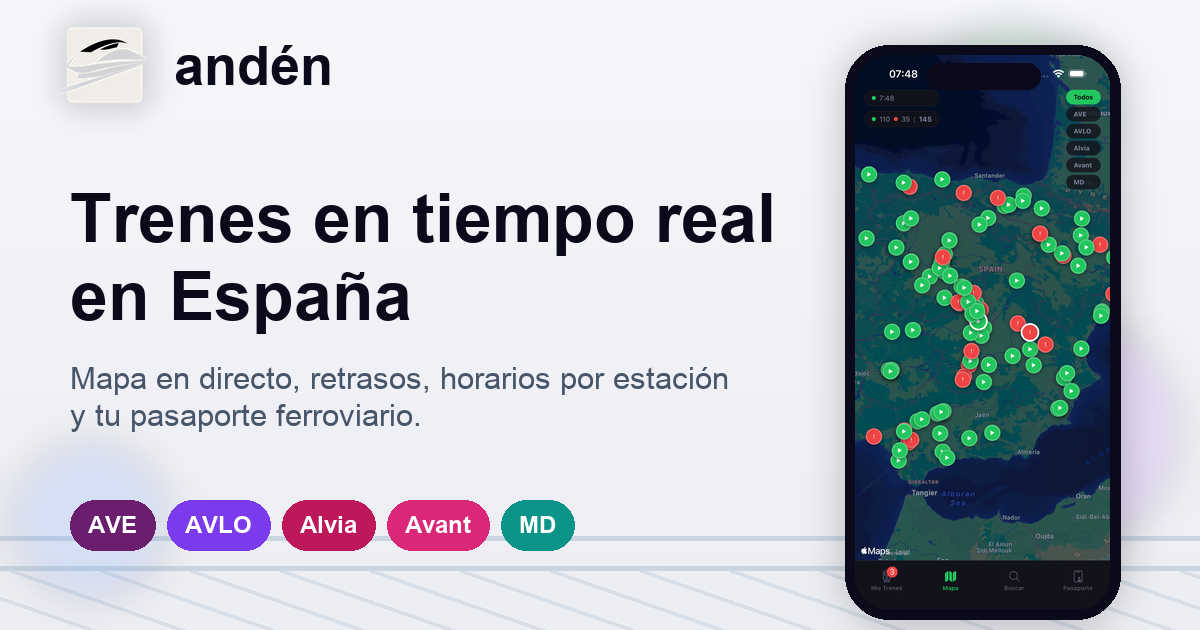
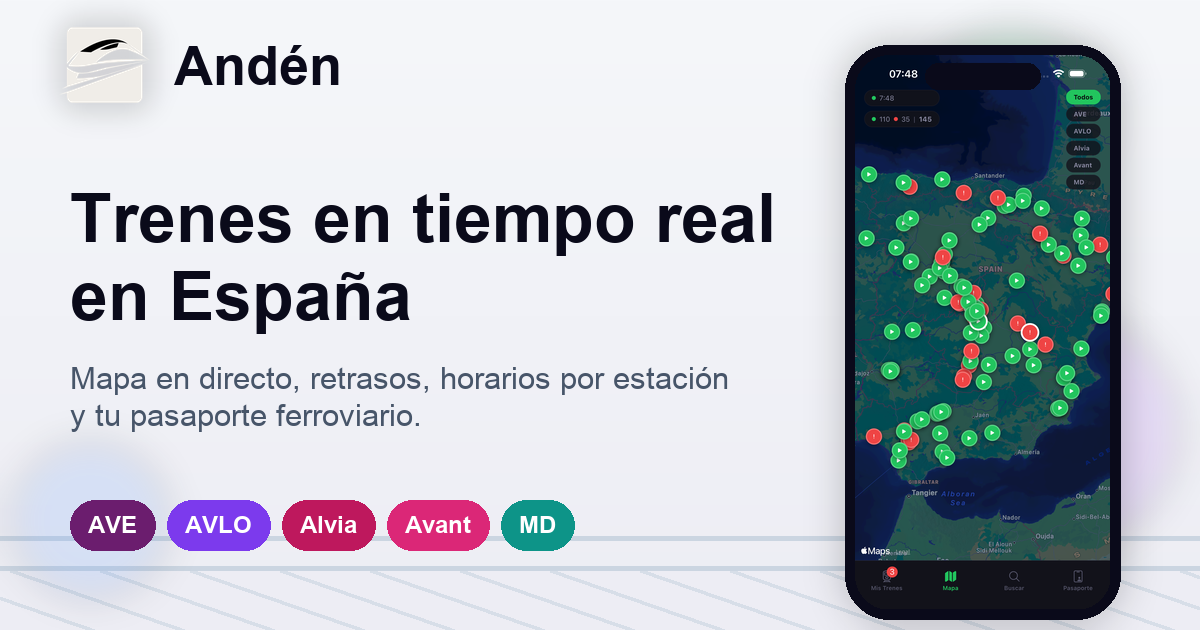
Capitalize Anden brand text

Changed region(s): [[0.1233, 0.0603, 0.3083, 0.1508]]

diff --git a/index.html b/index.html
@@ -137,7 +137,7 @@
     <div class="nav-container">
       <a href="#" class="nav-logo">
         <img src="images/app-icon.webp" alt="Andén" class="nav-logo-img" width="32" height="32" decoding="async">
-        <span class="nav-logo-text">andén</span>
+        <span class="nav-logo-text">Andén</span>
       </a>
       <div class="nav-links">
         <a href="#features">Funciones</a>
@@ -408,7 +408,7 @@
         <div class="footer-brand">
           <div class="footer-logo">
             <img src="images/app-icon.webp" alt="Andén" class="footer-logo-img" width="28" height="28" loading="lazy" decoding="async">
-            <span class="footer-logo-text">andén</span>
+            <span class="footer-logo-text">Andén</span>
           </div>
           <p class="footer-tagline">Tu tren, en directo.</p>
         </div>

diff --git a/accessibility.html b/accessibility.html
@@ -64,7 +64,7 @@
     <div class="nav-container">
       <a href="index.html" class="nav-logo">
         <img src="images/app-icon.png" alt="Andén" class="nav-logo-img">
-        <span class="nav-logo-text">andén</span>
+        <span class="nav-logo-text">Andén</span>
       </a>
       <a href="index.html" style="font-size:14px; color: var(--text-secondary);">
         &larr; Volver al inicio

diff --git a/privacy.html b/privacy.html
@@ -83,7 +83,7 @@
     <div class="nav-container">
       <a href="index.html" class="nav-logo">
         <img src="images/app-icon.png" alt="Andén" class="nav-logo-img">
-        <span class="nav-logo-text">andén</span>
+        <span class="nav-logo-text">Andén</span>
       </a>
       <a href="index.html" style="font-size:14px; color: var(--text-secondary);">
         &larr; Volver al inicio

diff --git a/terms.html b/terms.html
@@ -83,7 +83,7 @@
     <div class="nav-container">
       <a href="index.html" class="nav-logo">
         <img src="images/app-icon.png" alt="Andén" class="nav-logo-img">
-        <span class="nav-logo-text">andén</span>
+        <span class="nav-logo-text">Andén</span>
       </a>
       <a href="index.html" style="font-size:14px; color: var(--text-secondary);">
         &larr; Volver al inicio